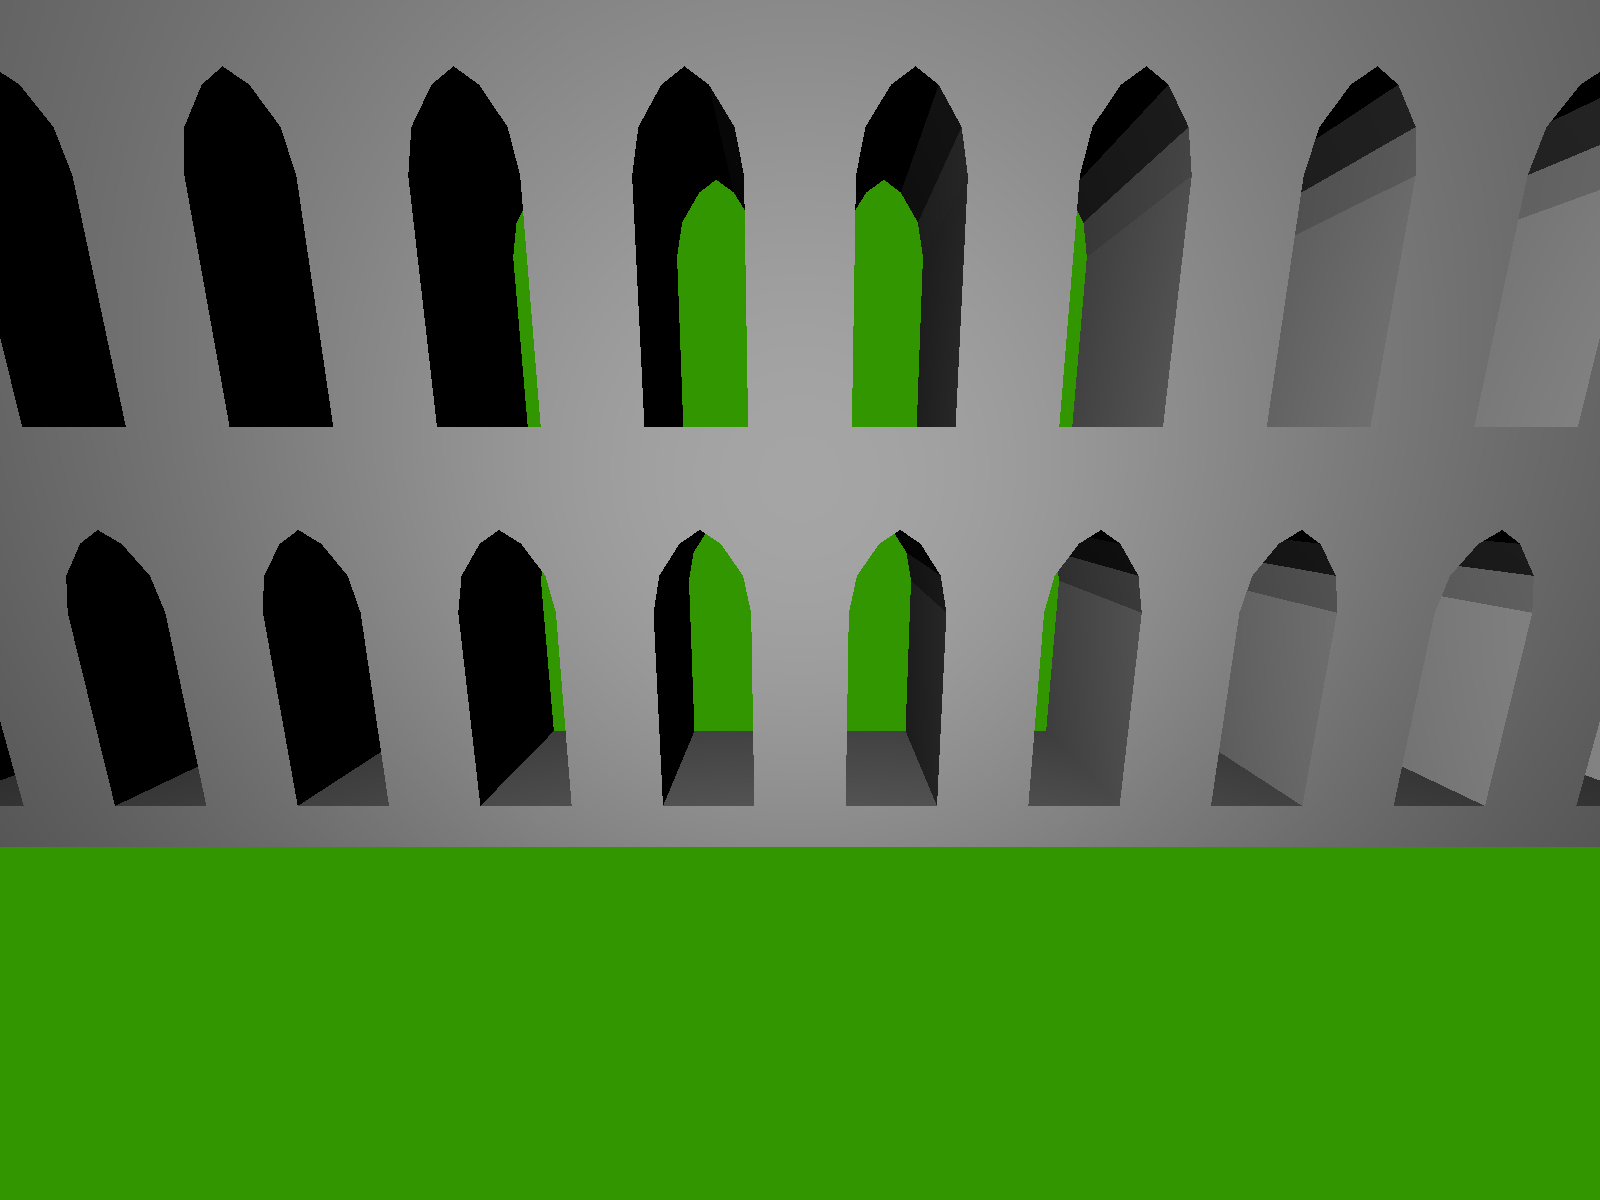
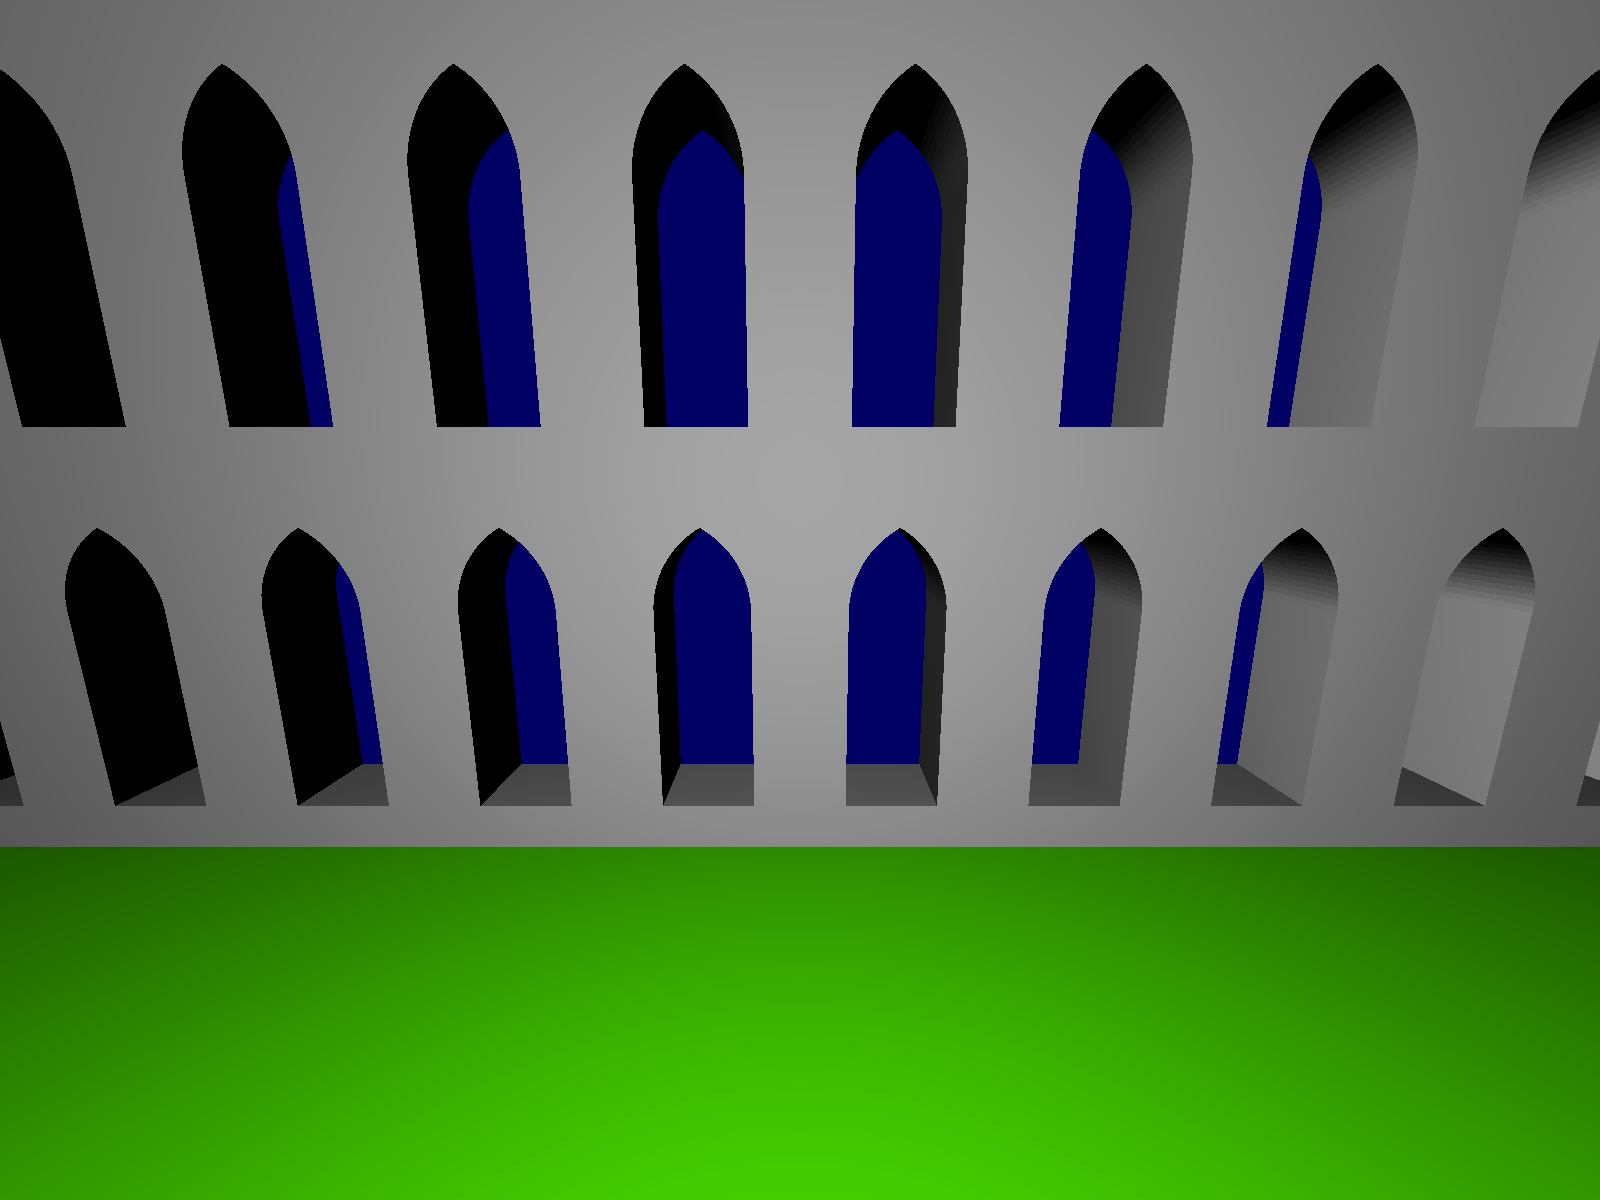
sharper rendition

diff --git a/gothic.go b/gothic.go
@@ -26,7 +26,7 @@ func simpleArchWindow(excess float64, mat m.Material) m.Object {
 	// then add the points on the circles of the actual arch
 	dist := pR.Sub(pL).Length()
 	r := excess * dist
-	numPoints := 16
+	numPoints := 100
 	circle := gen.NewCircle(func(t float64) float64 { return r }, numPoints)
 
 	mL := pL.Add(m.VectorFromTo(pL, pR).Times(excess))
@@ -89,7 +89,7 @@ func simpleArchWindow(excess float64, mat m.Material) m.Object {
 		Inner:    [][]m.Vector{arch},
 		Material: mat,
 	}
-	return gen.Extrude(ef, ez)
+	return gen.Extrude(ef, m.Vector{0, 0, 0.5})
 }
 
 func roundedArchWindow(mat m.Material) m.Object {

diff --git a/main.go b/main.go
@@ -26,7 +26,7 @@ func main() {
 	l1 := m.NewDistantLight(m.Vector{1, -1, 1}, m.NewColor(255, 255, 255), 50)
 	scene.AddLights(l1)
 
-	m.SetBackgroundColor(m.NewColor(50, 150, 0))
+	m.SetBackgroundColor(m.NewColor(0, 0, 100))
 
 	mat := &m.DiffuseMaterial{m.NewColor(100, 100, 100)}
 	w := equilateralArchWindow(mat)
@@ -38,6 +38,10 @@ func main() {
 			scene.Add(shared)
 		}
 	}
+
+	mat = &m.DiffuseMaterial{m.NewColor(50, 150, 0)}
+	q := m.NewQuadrilateral(m.Vector{-5, 0, 0}, m.Vector{5, 0, 0}, m.Vector{5, 0, 3}, m.Vector{-5, 0, 3}, mat)
+	scene.Add(q.Tesselate())
 
 	scene.Precompute()
 
